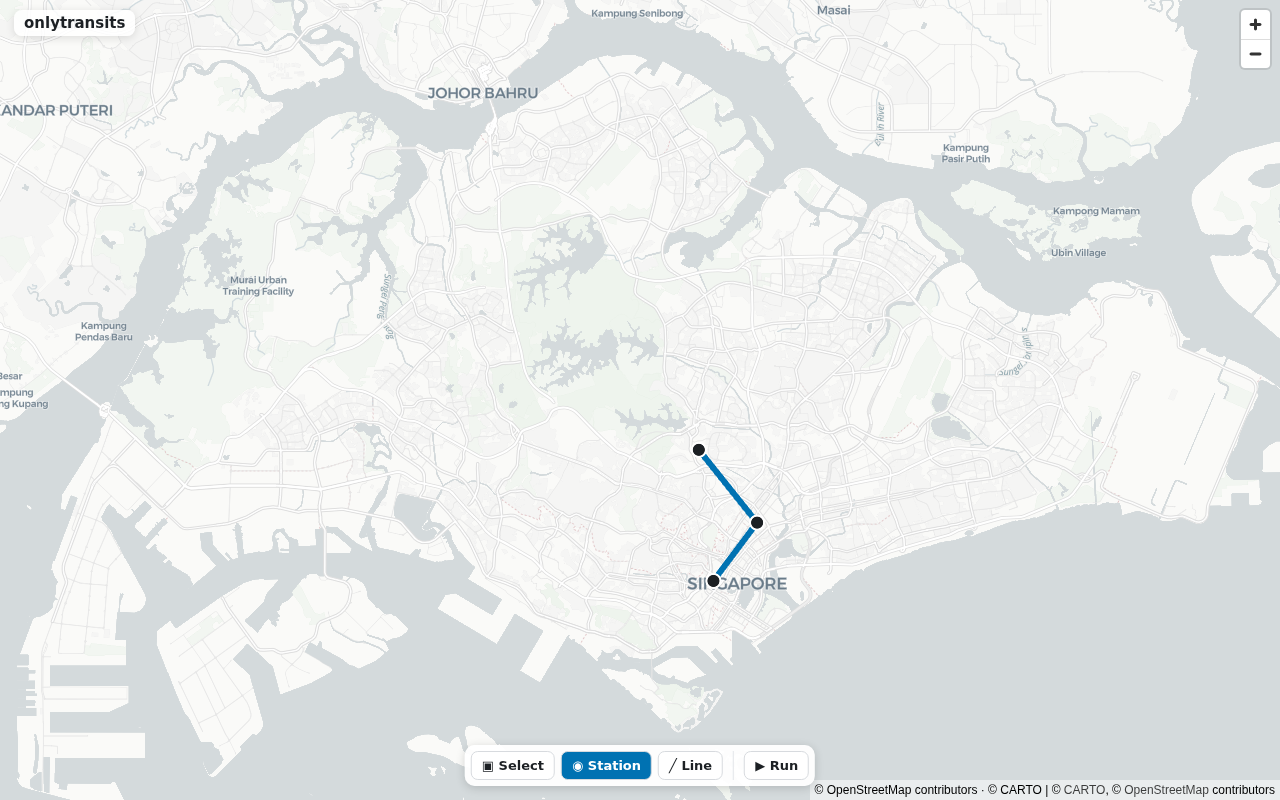
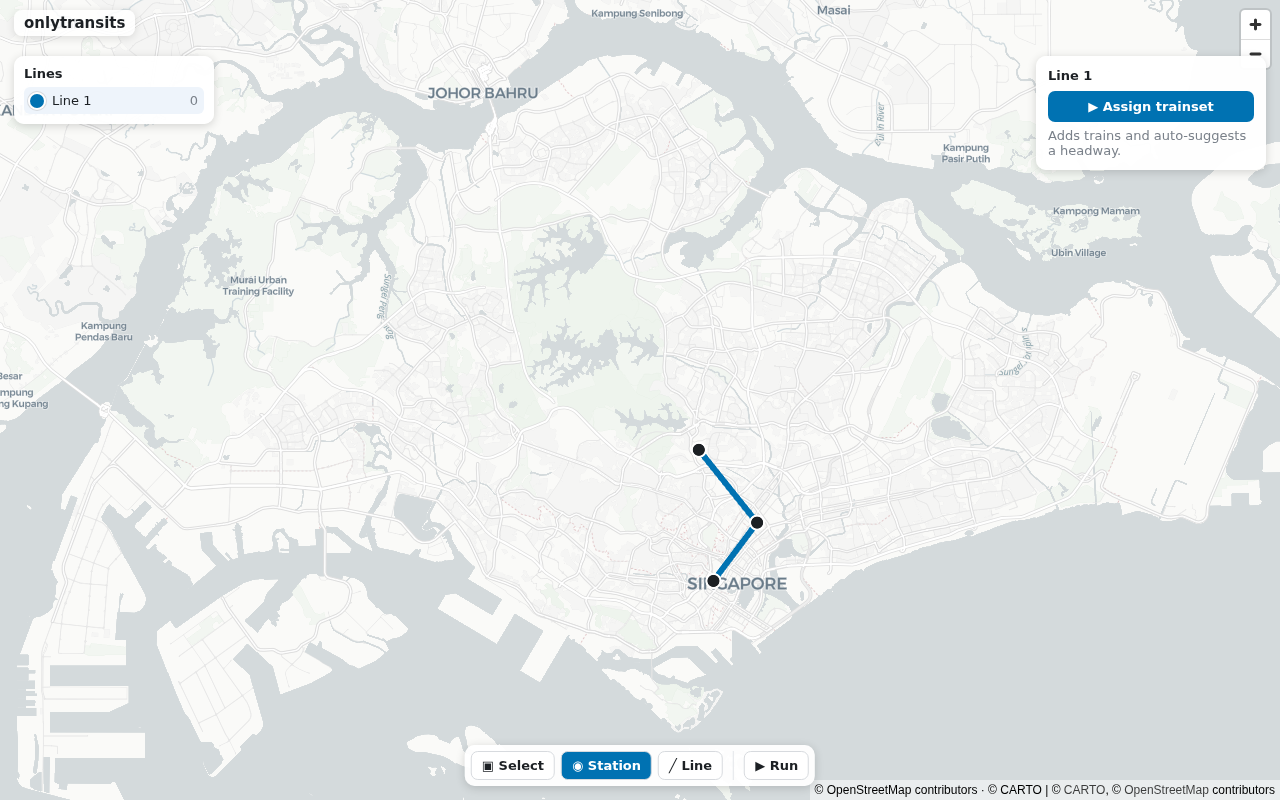
feat(app): trainset assignment + headway slider + line list panels (T12, M3 done)
- ui/panels.ts: left LineListPanel (swatch/name/ridership, click to select) + right contextual
  EditorPanel (Assign trainset button, Trains, Headway slider with live preview-on-input,
  command-on-change). Game.selectLine + auto-suggested headway (round-trip/count).
- e2e/assign.spec: assign 3 trains (auto headway) + override headway -> stats reflect it;
  editor panel + slider visible. Screenshot docs/progress/cp5-assign-trainset.png (self-verified).
- M3 (build tools) complete.

Changed region(s): [[0.8125, 0.0625, 1.0, 0.2188], [0.0, 0.0625, 0.1562, 0.1562]]

diff --git a/packages/app/src/ui/panels.ts b/packages/app/src/ui/panels.ts
@@ -1,0 +1,105 @@
+// Left LineListPanel (network roster) + right contextual EditorPanel (selected line's
+// trainset + headway). Reads sim snapshots, emits Commands via Game. Headway slider fires
+// one SetHeadway Command on `change` (drag-end); `input` only updates the live preview label.
+import type { Game } from "../game";
+
+const PANEL =
+  "position:fixed;background:rgba(255,255,255,.96);border-radius:10px;" +
+  "box-shadow:var(--ot-shadow);z-index:9;font:13px system-ui,sans-serif;color:#1c2024";
+
+function hex(u: number): string {
+  return "#" + (u & 0xffffff).toString(16).padStart(6, "0");
+}
+
+export function mountPanels(host: HTMLElement, game: Game): void {
+  const list = document.createElement("div");
+  list.id = "line-list";
+  list.dataset.testid = "line-list";
+  list.style.cssText = PANEL + ";top:56px;left:14px;width:200px;padding:10px;max-height:50vh;overflow:auto";
+
+  const editor = document.createElement("div");
+  editor.id = "editor-panel";
+  editor.dataset.testid = "editor-panel";
+  editor.style.cssText = PANEL + ";top:56px;right:14px;width:230px;padding:12px;display:none";
+
+  function renderList(): void {
+    const lines = game.bridge.stats().perLine;
+    list.innerHTML = `<div style="font-weight:700;margin-bottom:6px">Lines</div>`;
+    if (lines.length === 0) {
+      list.innerHTML += `<div style="color:#7a818a">No lines yet — draw one with the ╱ Line tool.</div>`;
+      return;
+    }
+    for (const l of lines) {
+      const row = document.createElement("div");
+      row.dataset.testid = `line-row-${l.lineId}`;
+      const sel = game.selectedLine === l.lineId;
+      row.style.cssText =
+        "display:flex;align-items:center;gap:8px;padding:6px;border-radius:6px;cursor:pointer;" +
+        (sel ? "background:#eef4fb" : "");
+      row.innerHTML =
+        `<span style="width:14px;height:14px;border-radius:50%;background:${hex(l.color)};` +
+        `box-shadow:0 0 0 2px #fff,0 0 0 3px #d7dade"></span>` +
+        `<span style="flex:1">Line ${l.lineId + 1}</span>` +
+        `<span data-testid="line-ridership-${l.lineId}" style="color:#7a818a">${Math.round(l.ridership)}</span>`;
+      row.addEventListener("click", () => game.selectLine(l.lineId));
+      list.appendChild(row);
+    }
+  }
+
+  function renderEditor(): void {
+    const id = game.selectedLine;
+    if (id === null) {
+      editor.style.display = "none";
+      return;
+    }
+    const l = game.bridge.stats().perLine.find((x) => x.lineId === id);
+    if (!l) {
+      editor.style.display = "none";
+      return;
+    }
+    editor.style.display = "block";
+    const mins = Math.max(2, Math.min(20, Math.round(l.headwayMs / 60_000)));
+
+    if (l.trains === 0) {
+      editor.innerHTML =
+        `<div style="font-weight:700;margin-bottom:8px">Line ${id + 1}</div>` +
+        `<button data-testid="assign-trainset" style="width:100%;padding:8px;border:0;border-radius:7px;` +
+        `background:#0072b2;color:#fff;font:600 13px system-ui;cursor:pointer">▶ Assign trainset</button>` +
+        `<div style="color:#7a818a;margin-top:6px">Adds trains and auto-suggests a headway.</div>`;
+      editor.querySelector<HTMLButtonElement>('[data-testid="assign-trainset"]')!
+        .addEventListener("click", () => game.assignTrainset(id, 2));
+      return;
+    }
+
+    editor.innerHTML =
+      `<div style="font-weight:700;margin-bottom:8px">Line ${id + 1}</div>` +
+      `<label style="display:flex;justify-content:space-between;align-items:center;margin:6px 0">` +
+      `Trains <input data-testid="trains-input" type="number" min="1" max="8" value="${l.trains}" ` +
+      `style="width:56px;padding:4px"></label>` +
+      `<label style="display:block;margin-top:10px">Headway: ` +
+      `<b data-testid="headway-label">${mins} min</b></label>` +
+      `<input data-testid="headway-slider" type="range" min="2" max="20" step="1" value="${mins}" ` +
+      `style="width:100%">` +
+      `<div style="color:#7a818a;margin-top:4px">Capacity × frequency are your two levers.</div>`;
+
+    const trains = editor.querySelector<HTMLInputElement>('[data-testid="trains-input"]')!;
+    trains.addEventListener("change", () =>
+      game.assignTrainset(id, Math.max(1, Math.min(8, Number(trains.value) | 0))),
+    );
+
+    const slider = editor.querySelector<HTMLInputElement>('[data-testid="headway-slider"]')!;
+    const label = editor.querySelector<HTMLElement>('[data-testid="headway-label"]')!;
+    slider.addEventListener("input", () => (label.textContent = `${slider.value} min`)); // preview only
+    slider.addEventListener("change", () => game.setHeadwayMs(id, Number(slider.value) * 60_000)); // commit
+  }
+
+  const sync = () => {
+    renderList();
+    renderEditor();
+  };
+  game.onChange.push(sync);
+  sync();
+
+  host.appendChild(list);
+  host.appendChild(editor);
+}

diff --git a/packages/app/src/game.ts b/packages/app/src/game.ts
@@ -63,14 +63,40 @@ export class Game {
     return lineId;
   }
 
+  /** Assign trains and auto-suggest a sensible headway (round-trip / count) on first assign. */
   assignTrainset(line: number, count: number): void {
+    const hadTrains = (this.bridge.linesView()[line] && this.lineTrains(line)) || 0;
     this.bridge.apply(cmd.assignTrainset(line, 0, count));
+    if (hadTrains === 0) {
+      this.bridge.apply(cmd.setHeadway(line, this.suggestHeadwayMs(line, count)));
+    }
     this.refresh();
   }
 
   setHeadwayMs(line: number, ms: number): void {
     this.bridge.apply(cmd.setHeadway(line, ms));
     this.refresh();
+  }
+
+  private lineTrains(line: number): number {
+    return this.bridge.stats().perLine.find((l) => l.lineId === line)?.trains ?? 0;
+  }
+
+  /** Round-trip travel time / train count, clamped to the sim's headway bounds. */
+  suggestHeadwayMs(line: number, count: number): number {
+    const l = this.bridge.linesView()[line];
+    if (!l) return 300_000;
+    let lenMm = 0;
+    for (let i = 1; i < l.polylineMm.length; i++) {
+      const [ax, ay] = l.polylineMm[i - 1];
+      const [bx, by] = l.polylineMm[i];
+      lenMm += Math.hypot(bx - ax, by - ay);
+    }
+    const vMaxMmS = 22_000;
+    const dwellMs = 20_000;
+    const oneWayMs = (lenMm / vMaxMmS) * 1000 + l.stops.length * dwellMs;
+    const roundTrip = 2 * oneWayMs;
+    return Math.max(30_000, Math.min(1_800_000, Math.round(roundTrip / Math.max(1, count))));
   }
 
   setMode(mode: Mode): void {
@@ -89,6 +115,12 @@ export class Game {
   selectStation(id: number | null): void {
     this.selectedStation = id;
     this.selectedLine = null;
+    this.refresh();
+  }
+
+  selectLine(id: number | null): void {
+    this.selectedLine = id;
+    this.selectedStation = null;
     this.refresh();
   }
 

diff --git a/packages/app/e2e/assign.spec.ts b/packages/app/e2e/assign.spec.ts
@@ -1,0 +1,31 @@
+import { test, expect } from "@playwright/test";
+
+// T12: assign a trainset (auto-suggested headway) and override headway; assert authoritative
+// sim state via stats(). Then exercise the EditorPanel UI path and screenshot.
+test("assign trainset + headway via the editor and the command path", async ({ page }) => {
+  await page.goto("/");
+  await page.waitForFunction(() => window.__MAP_READY === true, undefined, { timeout: 30_000 });
+
+  await page.evaluate(() => {
+    const t = window.__ot_test!;
+    const a = t.placeStationLngLat(103.845, 1.29);
+    const b = t.placeStationLngLat(103.86, 1.31);
+    const c = t.placeStationLngLat(103.84, 1.335);
+    t.drawLine([a, b, c]);
+    t.assignTrainset(0, 3); // auto-suggests a headway
+  });
+
+  let line = await page.evaluate(() => window.__ot!.bridge.stats().perLine[0]);
+  expect(line.trains).toBe(3);
+  expect(line.headwayMs).toBeGreaterThan(0); // auto-suggested
+
+  await page.evaluate(() => window.__ot_test!.setHeadwayMs(0, 6 * 60_000));
+  line = await page.evaluate(() => window.__ot!.bridge.stats().perLine[0]);
+  expect(line.headwayMs).toBe(360_000);
+
+  // The editor panel is visible for the selected line.
+  await expect(page.locator('[data-testid="editor-panel"]')).toBeVisible();
+  await expect(page.locator('[data-testid="headway-slider"]')).toBeVisible();
+
+  await page.screenshot({ path: "../../docs/progress/cp5-assign-trainset.png" });
+});

diff --git a/packages/app/src/main.ts b/packages/app/src/main.ts
@@ -9,6 +9,7 @@ import { SimBridge } from "./sim/SimBridge";
 import { Game } from "./game";
 import { attachPointer } from "./tools/pointer";
 import { mountToolbar } from "./ui/toolbar";
+import { mountPanels } from "./ui/panels";
 import { installTestHooks } from "./testhooks";
 
 function mountTitle(): void {
@@ -37,6 +38,7 @@ async function boot(): Promise<void> {
 
   const ui = document.getElementById("ui")!;
   mountToolbar(ui, game);
+  mountPanels(ui, game);
 
   // Initial render once the map is ready (deck syncs to the camera).
   map.once("load", () => game.refresh());

diff --git a/packages/app/src/global.d.ts b/packages/app/src/global.d.ts
@@ -18,8 +18,8 @@ declare global {
       game: Game;
     };
     __ot_test?: {
-      placeStationLngLat(lng: number, lat: number): void;
-      drawLine(stationIds: number[]): void;
+      placeStationLngLat(lng: number, lat: number): number;
+      drawLine(stationIds: number[]): number;
       assignTrainset(line: number, count: number): void;
       setHeadwayMs(line: number, ms: number): void;
       setRunning(running: boolean): void;

diff --git a/PROGRESS.md b/PROGRESS.md
@@ -7,8 +7,8 @@ Maintained at every checkpoint and every fallback taken.
 
 - [x] **M0** Walking skeleton — repo + green tests in all 3 tiers (T1–T4, CP0) ✅
 - [x] **M1** Singapore map renders & is interactive (T5, T6, CP3/CP4) ✅
-- [ ] **M2** WASM sim bridge proven (T8, T9, T13, CP2)
-- [ ] **M3** Build tools — place stations, draw a line, assign a trainset (T10–T12, CP5)
+- [x] **M2** WASM sim bridge proven (T8, T9, T13, CP2) ✅
+- [x] **M3** Build tools — place stations, draw a line, assign a trainset (T10–T12, CP5) ✅
 - [ ] **M4** Live sim — vehicles run, passengers flow, ridership accrues (T14–T16b, CP6/CP7)
 - [ ] **M5** Stats readout + full slice verified e2e (T17, T18, CP8)
 
@@ -21,12 +21,12 @@ Maintained at every checkpoint and every fallback taken.
 | T4 | CI workflow | ✅ done (YAML valid; not run locally) |
 | T8 | sim-wasm wrapper (Sim::new/applyCommandJson/tick/SoA) | ✅ done (node smoke) |
 | T9 | TS SimBridge + wasm-in-node smoke | ✅ done (vitest 6/6) |
-| T13 | Synthetic demand grid + singapore_city.json | pending |
-| T5 | MapLibre Singapore basemap + geo.ts | pending |
-| T6 | deck.gl MapboxOverlay + test layer | pending |
-| T10 | Place-station tool + catchment | ✅ done |
-| T11 | Draw-line tool | pending |
-| T12 | Assign trainset + headway slider + SoA clamp | pending |
+| T13 | Synthetic demand grid + singapore_city.json + loader | ✅ done (cargo 8/8, vitest 9/9) |
+| T5 | MapLibre Singapore basemap + geo.ts | ✅ done (CP3, e2e) |
+| T6 | deck.gl MapboxOverlay + test layer | ✅ done (CP4) |
+| T10 | Place-station tool + catchment | ✅ done (CP5) |
+| T11 | Draw-line tool (snap/blueprint/commit) | ✅ done (CP5, e2e) |
+| T12 | Assign trainset + headway slider + left line list | ✅ done (CP5, e2e) |
 | T14 | Vehicle movement (Rust) | pending |
 | T15 | Fixed-timestep animation loop | pending |
 | T16a | Catchment capture + spawn | pending |
@@ -77,6 +77,11 @@ Dependency pins in use: `rand =0.10.1`, `rand_chacha =0.10.0`, `wasm-bindgen =0.
   Vite browser build and Vitest(node) via top-level await — removes the manual `init()`/fetch friction (the
   documented T9 risk). Vitest 6/6 (geo 3 + bridge 3, incl. determinism across the wire). Bridge proven; the
   "vehicle advances across ticks" assertion lands with T14/T15.
+- **2026-06-04 → 06-05 (overnight)** — T13: synthetic demand grid (3050 cells, no pyrosm) + city manifest +
+  loader (cargo 8/8, vitest 9/9). **M2 done.** T5: CARTO Positron basemap + OSM attribution (CP3, screenshot).
+  T6: deck.gl MapboxOverlay overlaid + marker (CP4, screenshot). **M1 done.** T10/T11: place-station +
+  interactive draw-line (snap/blueprint/commit, dragPan toggle) + overlay render from authoritative views;
+  e2e places 3 stations + draws line [0,1,2] (CP5 screenshot cp5-stations-and-line.png). Now T12.
 
 ## Known gaps / deferred
 
